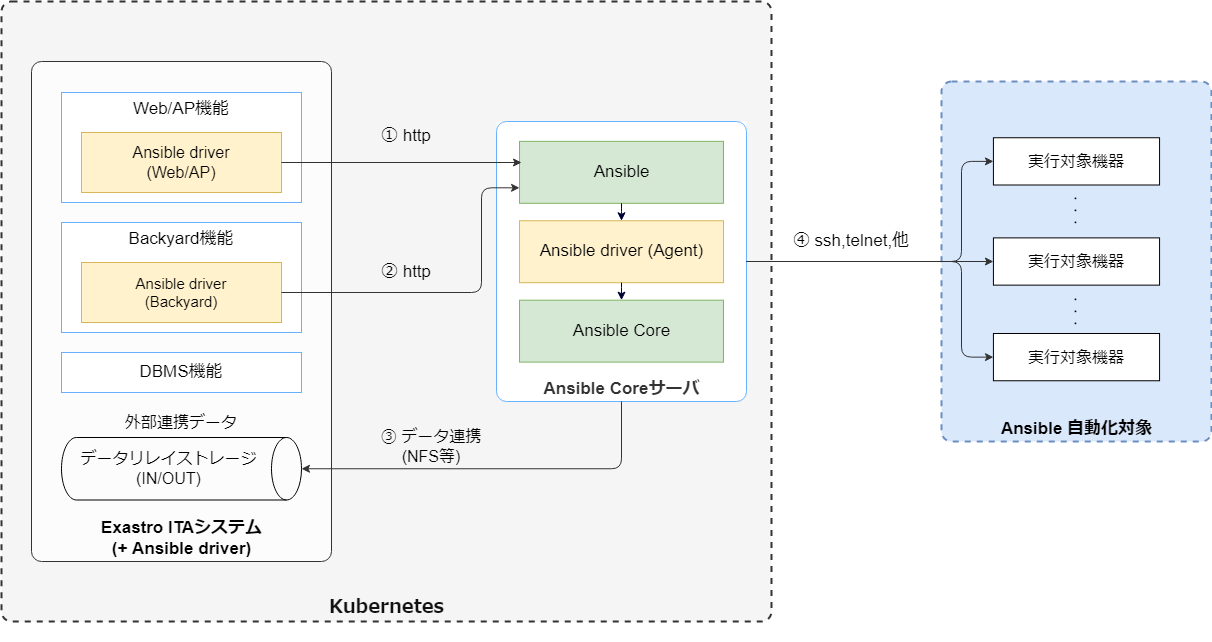
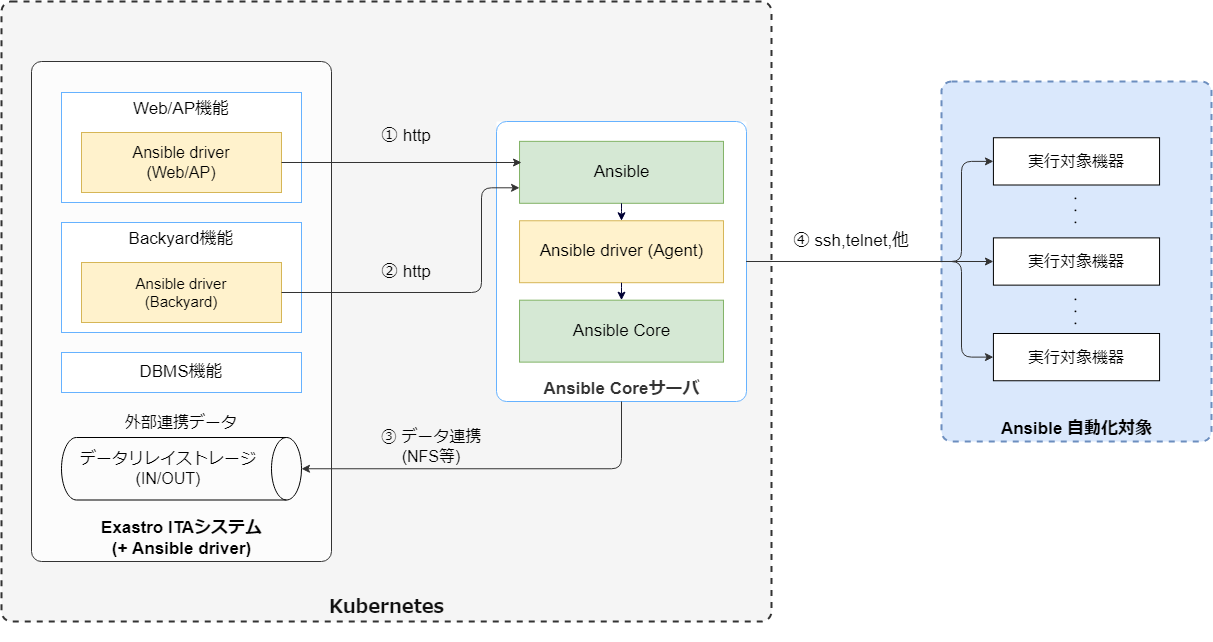
システム構成(Ansible-driver)_画像背景透過とサイズ変更

diff --git a/documentation/v2.0/ja/manuals/ansible-driver/architecture.rst b/documentation/v2.0/ja/manuals/ansible-driver/architecture.rst
@@ -72,21 +72,24 @@ ITA_システム構成/環境構築ガイド Ansible-driver編
    :alt: オールインワン構成イメージ
    :width: 8.69236in
    :height: 4.92847in
+   :align: center
 
 Ansible Automation Controller 構成イメージ
 ~~~~~~~~~~~~~~~~~~~~~~~~~~~~~~~~~~~~~~~~~~~~~~~~~~~~~~~~
 
 .. figure:: ./architecture/AAC_diagram.png
    :alt: Ansible Automation Controller 構成イメージ
-   :width: 10.69236in
+   :width: 9.69236in
    :height: 4.92847in
+   :align: center
 
 Ansible Automation Controller + AEE 構成イメージ 
 ~~~~~~~~~~~~~~~~~~~~~~~~~~~~~~~~~~~~~~~~~~~~~~~~~~~~~~~~
 .. figure:: ./architecture/AAC_diagram_AEE.png
    :alt: Ansible Automation Controller 構成イメージ + AEE 
-   :width: 11.69236in
-   :height: 4.23472in
+   :width: 10.69236in
+   :height: 5.23472in
+   :align: center
 
 
 
@@ -248,7 +251,8 @@ Ansible Automation Controller
 Playbook連携
 ========================================================
 
-| ITAとAnsible Core 及びAnsible Automation Controller間のPlaybook連携について説明します。
+| ITAとAnsible Core 及びAn
+sible Automation Controller間のPlaybook連携について説明します。
 
 .. figure:: ./architecture/image2a_1.png
    :alt: ITAとAnsible Core間のPlaybook連携図
